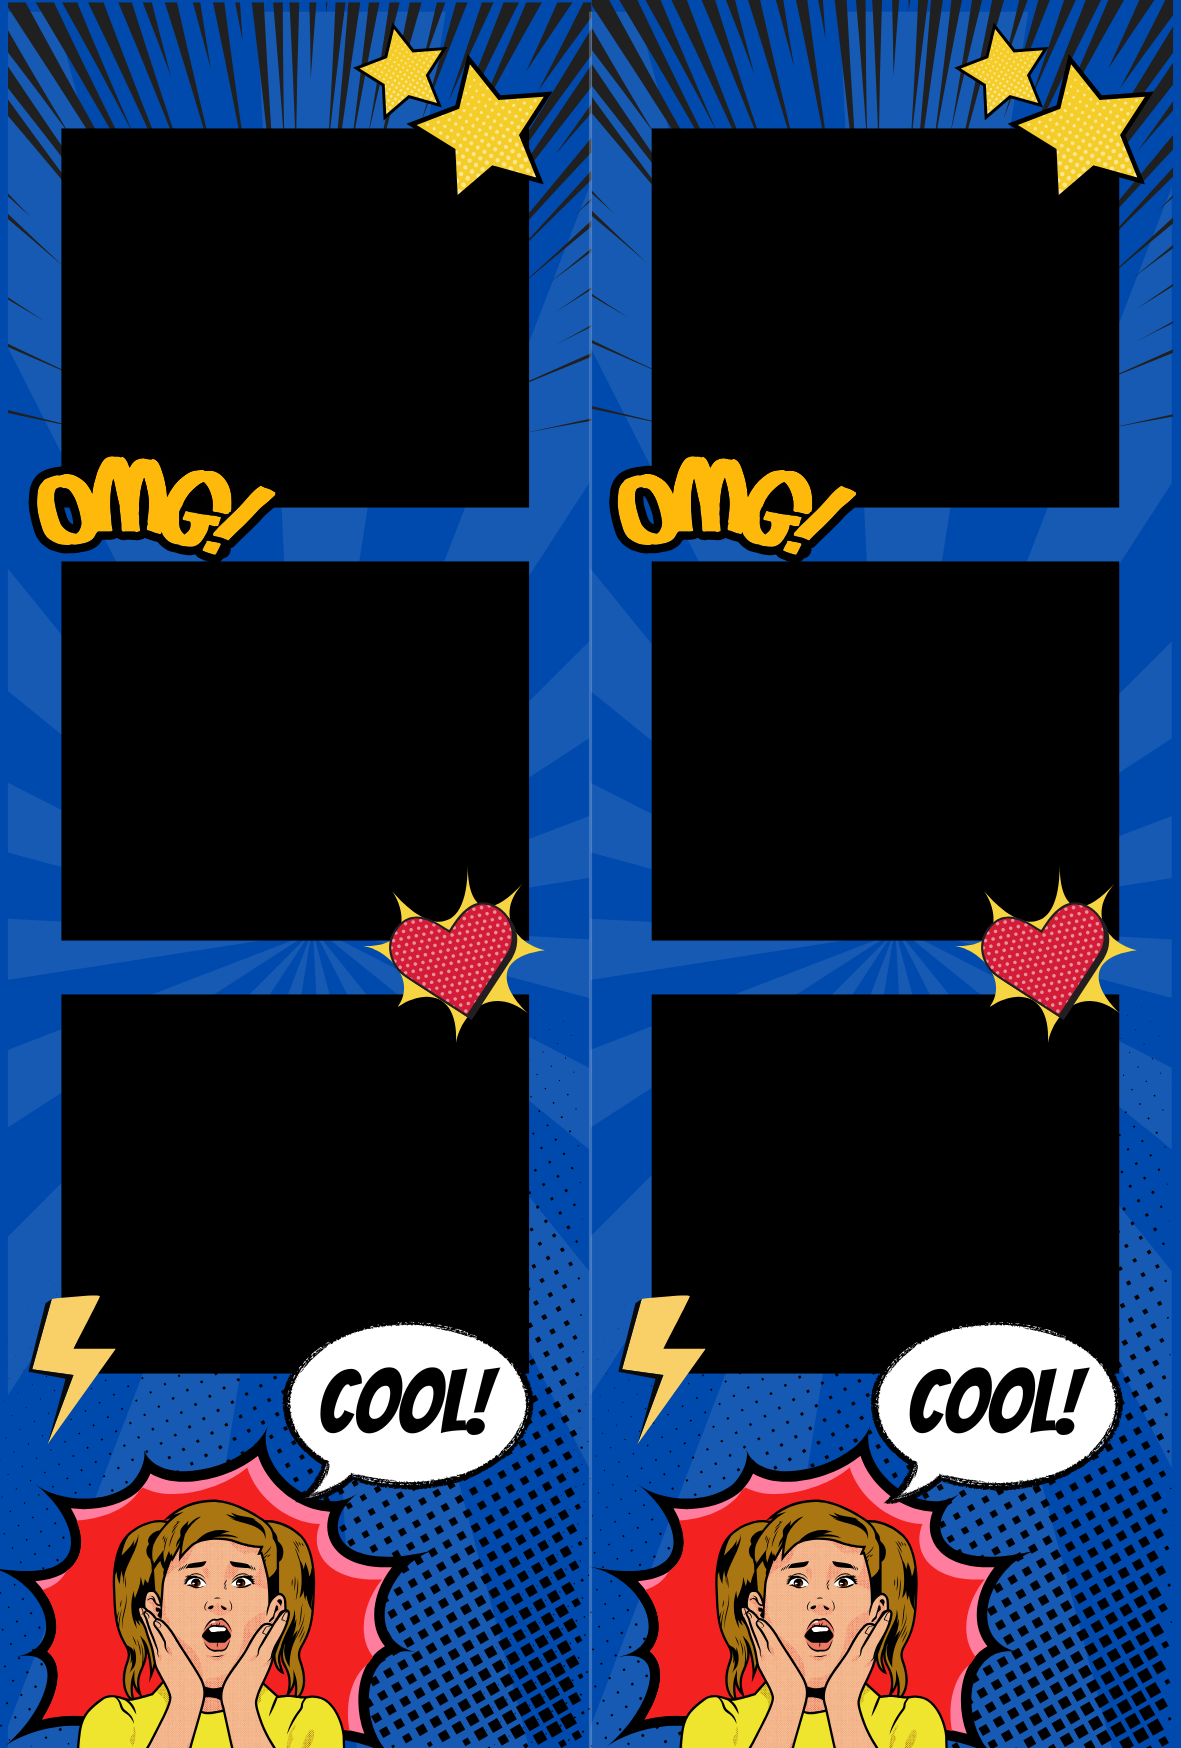
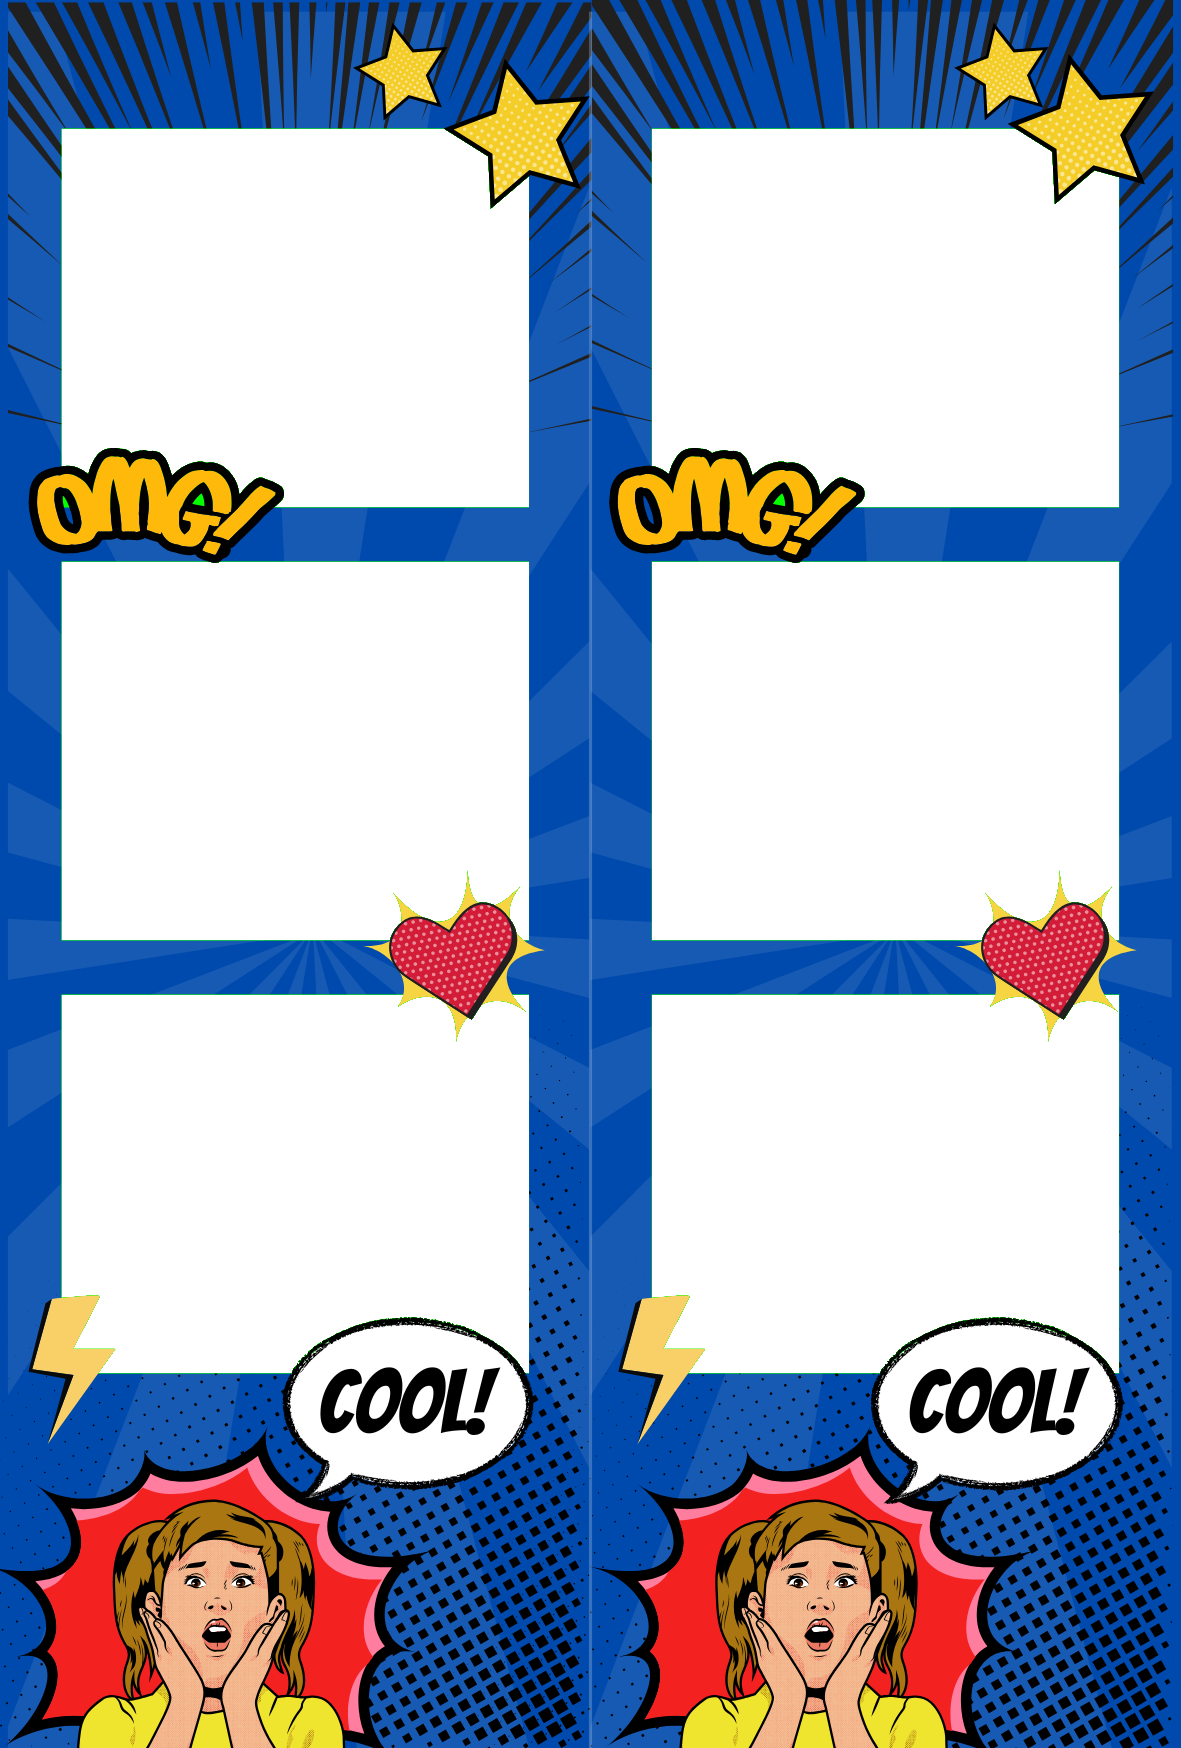
Fix bug pada strip pop art comic

diff --git a/resources/views/components/strip-engine.blade.php b/resources/views/components/strip-engine.blade.php
@@ -60,14 +60,17 @@
         canvas.height = H;
         ctx.fillStyle = '#ffffff';
         ctx.fillRect(0, 0, W, H);
-        if (d.frame) ctx.drawImage(d.frame, 0, 0, W, H); // latar (dekorasi)
-        const bleed = Math.max(1, Math.round(2 * W / ref.naturalWidth));
-        tpl.slots.forEach((s, i) => { // foto i -> slot i
+        // 1) Gambar 6 foto ke tiap slot, CLIP ketelitian ke boundary slot
+        //    Urutan: background -> foto per-slot (diclip) -> frame transparan di bawah
+        tpl.slots.forEach((s, i) => {
             const im = imgs[i];
             if (!im) return;
-            drawCover(ctx, im, s.x * W - bleed, s.y * H - bleed, s.w * W + bleed * 2, s.h * H + bleed * 2, 0);
+            drawCover(ctx, im, s.x * W, s.y * H, s.w * W, s.h * H, 0);
         });
-        if (d.trans) ctx.drawImage(d.trans, 0, 0, W, H); // frame transparan paling atas
+        // 2) Gambar frame transparan PADA AKHIR (atas semua)
+        //    Tanpa urutan ini, frame akan tertutup oleh foto
+        if (d.trans) ctx.drawImage(d.trans, 0, 0, W, H);
+        // 3) Debug: kotak merah batas slot (digambar sesudah frame/foto)
         if (window.__debug) {
             tpl.slots.forEach((s, i) => {
                 ctx.save();
@@ -78,9 +81,9 @@
                 ctx.font = '16px Arial';
                 ctx.fillText('S' + (i + 1), s.x * W + 4, s.y * H + 20);
                 ctx.restore();
-            });
-        }
-    }
+           });
+       }
+   }
 
     function selectedTemplate() {
         return TEMPLATES.find(t => String(t.id) === String(state.templateId)) || null;
